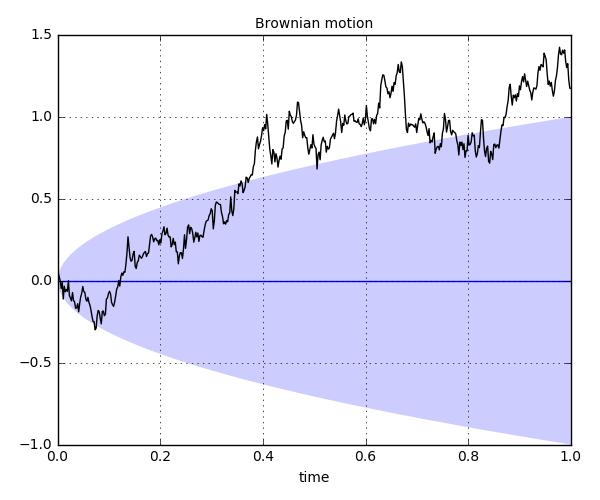
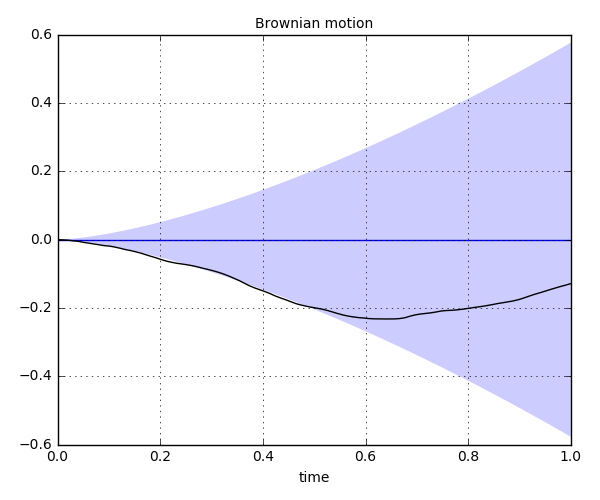
added integrated brownian motion example

diff --git a/rbf/gauss.py b/rbf/gauss.py
@@ -637,7 +637,7 @@ def _differentiate(gp,d):
   return out
 
 
-def _condition(gp,y,d,Cd,obs_diff):
+def _condition(gp,y,d,Cd,obs_diff,basis_vecs):
   '''   
   Returns a conditioned *GaussianProcess*.
   '''
@@ -650,13 +650,14 @@ def _condition(gp,y,d,Cd,obs_diff):
     # compute K_y_inv
     Cu_yy = gp._covariance(y,y,obs_diff,obs_diff)
     p_y   = gp._basis(y,obs_diff)
-    q,m = d.shape[0],p_y.shape[1]
-    K_y = np.zeros((q+m,q+m))
+    q,m,v = d.shape[0],p_y.shape[1],basis_vecs.shape[1]
+    p_y = np.hstack((p_y,basis_vecs)) 
+    K_y = np.zeros((q+m+v,q+m+v))
     K_y[:q,:q] = Cu_yy + Cd
     K_y[:q,q:] = p_y
     K_y[q:,:q] = p_y.T
     try:
-      K_y_inv = np.linalg.inv(K_y)
+      K_y_inv = np.linalg.inv(K_y)[:q+m,:q+m]
       
     except np.linalg.LinAlgError:
       raise np.linalg.LinAlgError(
@@ -697,15 +698,16 @@ def _condition(gp,y,d,Cd,obs_diff):
   return out
 
 
-def _likelihood(gp,y,d,sigma,obs_diff):
+def _likelihood(gp,y,d,Cd,obs_diff,basis_vecs):
   ''' 
   returns the marginal likelihood of observing *d* from the *gp*
   '''
   # H : (n,m) array, basis functions
   H = gp.basis(y,diff=obs_diff)
+  H = np.hstack((H,basis_vecs))
   n,m = H.shape # number of observations and basis functions
   # K : (n,n) array, covariance matrix
-  K = gp.covariance(y,y,diff1=obs_diff,diff2=obs_diff) + sigma
+  K = gp.covariance(y,y,diff1=obs_diff,diff2=obs_diff) + Cd
   # L : (n,n) array, cholesky decomposition of K
   L = _cholesky(K,lower=True,check_finite=False)
   # N : (n,) array, inv(L).dot(d)
@@ -1003,7 +1005,7 @@ class GaussianProcess(object):
     out = _differentiate(self,d)
     return out  
 
-  def condition(self,y,d,sigma=None,obs_diff=None):
+  def condition(self,y,d,sigma=None,obs_diff=None,basis_vecs=None):
     ''' 
     Returns a conditional *GaussianProcess* which incorporates the 
     observed data, *d*.
@@ -1027,6 +1029,12 @@ class GaussianProcess(object):
     obs_diff : (D,) int array, optional
       Derivative of the observations. For example, use (1,) if the 
       observations constrain the slope of a 1-D Gaussian process.
+    
+    basis_vecs : (N,P) float array, optional  
+      Noise basis vectors. The data noise is assumed to contain some 
+      unknown linear combination of the columns. For example, set this 
+      to *np.array([np.ones_like(d),y]).T*, if the noise contains an 
+      unknown constant and linear term.
       
     Returns
     -------
@@ -1057,10 +1065,16 @@ class GaussianProcess(object):
 
       _assert_shape(sigma,(q,q),'sigma')
         
-    out = _condition(self,y,d,sigma,obs_diff)
+    if basis_vecs is None:
+      basis_vecs = np.zeros((q,0))
+    else:
+      basis_vecs = np.asarray(basis_vecs,dtype=float)
+      _assert_shape(basis_vecs,(q,None),'basis_vecs')
+      
+    out = _condition(self,y,d,sigma,obs_diff,basis_vecs)
     return out
 
-  def likelihood(self,y,d,sigma=None,obs_diff=None):
+  def likelihood(self,y,d,sigma=None,obs_diff=None,basis_vecs=None):
     ''' 
     Returns the log marginal likelihood of drawing the (potentially 
     noisy) observations *d* from this *GaussianProcess*. The marginal 
@@ -1114,6 +1128,12 @@ class GaussianProcess(object):
       Derivative of the observations. For example, use (1,) if the 
       observations constrain the slope of a 1-D Gaussian process.
 
+    basis_vecs : (N,P) float array, optional  
+      Noise basis vectors. The data noise is assumed to contain some 
+      unknown linear combination of the columns. For example, set this 
+      to *np.array([np.ones_like(d),y]).T*, if the noise contains an 
+      unknown constant and linear term.
+
     Returns
     -------
     out : float
@@ -1142,12 +1162,18 @@ class GaussianProcess(object):
 
       _assert_shape(sigma,(n,n),'sigma')
     
-    out = _likelihood(self,y,d,sigma,obs_diff)  
+    if basis_vecs is None:
+      basis_vecs = np.zeros((n,0))
+    else:
+      basis_vecs = np.asarray(basis_vecs,dtype=float)
+      _assert_shape(basis_vecs,(n,None),'basis_vecs')
+
+    out = _likelihood(self,y,d,sigma,obs_diff,basis_vecs)  
     return out
 
   def basis(self,x,diff=None):
     ''' 
-    Returns the unconstrained basis vectors evaluated at *x*.
+    Returns the unconstrained basis functions evaluated at *x*.
     
     Parameters
     ----------
@@ -1398,7 +1424,7 @@ class GaussianProcess(object):
     return out  
     
 
-def gpiso(basis,coeff,dim=None):
+def gpiso(phi,coeff,dim=None):
   ''' 
   Creates an isotropic *GaussianProcess* instance which has a constant 
   mean and a covariance function that is described by a radial basis 
@@ -1406,7 +1432,7 @@ def gpiso(basis,coeff,dim=None):
   
   Parameters
   ----------
-  basis : RBF instance
+  phi : RBF instance
     Radial basis function describing the covariance function. For 
     example, use *rbf.basis.se* for a squared exponential covariance 
     function.
@@ -1414,7 +1440,7 @@ def gpiso(basis,coeff,dim=None):
   coeff : 3-tuple  
     Tuple of three coefficients, *a*, *b*, and *c*, describing the 
     probability distribution. *a* is the mean, *b* scales the 
-    covariance function, and *c* is the shape parameter. When *basis* 
+    covariance function, and *c* is the shape parameter. When *phi* 
     is set to *rbf.basis.se*, *b* and *c* describe the variance and 
     the characteristic length-scale, respectively.
   
@@ -1429,7 +1455,7 @@ def gpiso(basis,coeff,dim=None):
 
   Notes
   -----
-  1. If *basis* is scale invariant, such as for odd order polyharmonic 
+  1. If *phi* is scale invariant, such as for odd order polyharmonic 
   splines, then *b* and *c* have inverse effects on the resulting 
   Gaussian process and thus only one of them needs to be chosen while 
   the other can be fixed at an arbitary value.
@@ -1458,7 +1484,7 @@ def gpiso(basis,coeff,dim=None):
   def covariance(x1,x2,diff1,diff2):
     a,b,c = coeff  
     diff = diff1 + diff2
-    out = b*(-1)**sum(diff2)*basis(x1,x2,eps=c,diff=diff)
+    out = b*(-1)**sum(diff2)*phi(x1,x2,eps=c,diff=diff)
     if not np.all(np.isfinite(out)):
       raise ValueError(
         'Encountered a non-finite RBF covariance. This may be '

diff --git a/docs/scripts/gauss.g.py b/docs/scripts/gauss.g.py
@@ -1,0 +1,77 @@
+''' 
+This script demonstrates how create a Gaussian process describing 
+integrated Brownian motion with the *GaussianProcess* class. 
+integrated Brownian motion has mean u(t) = 0 and covariance 
+
+  cov(t1,t2) = (1/2)*min(t1,t2)**2 * (max(t1,t2) - min(t1,t2)/3).
+
+It also demonstrates how to make the *GaussianProcess* differentiable 
+by manually specifying the covariance derivatives.
+
+'''
+import numpy as np
+import matplotlib.pyplot as plt
+from rbf.gauss import GaussianProcess
+np.random.seed(1)
+
+# define mean function
+def mean(x,diff):
+  '''mean function which is zero for all derivatives'''
+  out = np.zeros(x.shape[0])
+  return out
+
+# define covariance function
+def cov(x1,x2,diff1,diff2):
+  '''covariance function and its derivatives'''
+  x1,x2 = np.meshgrid(x1[:,0],x2[:,0],indexing='ij')
+  if (diff1 == (0,)) & (diff2 == (0,)):
+    # integrated brownian motion
+    out = (0.5*np.min([x1,x2],axis=0)**2*
+           (np.max([x1,x2],axis=0) - 
+            np.min([x1,x2],axis=0)/3.0))
+
+  elif (diff1 == (1,)) & (diff2 == (1,)):
+    # brownian motion
+    out = np.min([x1,x2],axis=0)
+  
+  elif (diff1 == (1,)) & (diff2 == (0,)):   
+    # derivative w.r.t x1
+    out = np.zeros_like(x1)
+    idx1 = x1 >= x2
+    idx2 = x1 <  x2
+    out[idx1] = 0.5*x2[idx1]**2
+    out[idx2] = x1[idx2]*x2[idx2] - 0.5*x1[idx2]**2
+
+  elif (diff1 == (0,)) & (diff2 == (1,)):   
+    # derivative w.r.t x2
+    out = np.zeros_like(x1)
+    idx1 = x2 >= x1
+    idx2 = x2 <  x1
+    out[idx1] = 0.5*x1[idx1]**2
+    out[idx2] = x2[idx2]*x1[idx2] - 0.5*x2[idx2]**2
+  
+  else:
+    raise ValueError(
+      'The *GaussianProcess* is not sufficiently differentiable')
+  
+  return out
+
+t = np.linspace(0.0,1,100)[:,None]
+gp = GaussianProcess(mean,cov,dim=1)
+#gp = gp.differentiate((1,))
+sample = gp.draw_sample(t) # draw a sample
+mu,sigma = gp(t) # evaluate the mean and std. dev.
+
+# plot the results
+fig,ax = plt.subplots(figsize=(6,5))
+ax.grid(True)
+ax.plot(t[:,0],mu,'b-',label='mean')
+ax.fill_between(t[:,0],mu+sigma,mu-sigma,color='b',alpha=0.2,edgecolor='none',label='std. dev.')
+ax.plot(t[:,0],sample,'k',label='sample')
+ax.set_xlabel('time',fontsize=10)
+ax.set_title('integrated Brownian motion',fontsize=10)
+ax.tick_params(labelsize=10)
+fig.tight_layout()
+plt.savefig('../figures/gauss.g.png')
+plt.show()
+

diff --git a/docs/scripts/gauss.d.py b/docs/scripts/gauss.d.py
@@ -1,6 +1,7 @@
 ''' 
 This script demonstrates how create a Gaussian process describing 
-Brownian motion with the *GaussianProcess* class.
+Brownian motion with the *GaussianProcess* class. Brownian motion has 
+mean u(t) = 0 and covariance cov(t1,t2) = min(t1,t2).
 '''
 import numpy as np
 import matplotlib.pyplot as plt
@@ -14,7 +15,7 @@ def brownian_mean(x):
 
 # define covariance function
 def brownian_cov(x1,x2):
-  c = np.min(np.meshgrid(x2[:,0],x1[:,0]),axis=0)
+  c = np.min(np.meshgrid(x1[:,0],x2[:,0],indexing='ij'),axis=0)
   return c
 
 t = np.linspace(0.001,1,500)[:,None]

diff --git a/docs/source/gauss.rst b/docs/source/gauss.rst
@@ -24,3 +24,6 @@ Examples
 
 .. literalinclude:: ../scripts/gauss.f.py
 .. image:: ../figures/gauss.f.png
+
+.. literalinclude:: ../scripts/gauss.g.py
+.. image:: ../figures/gauss.g.png
